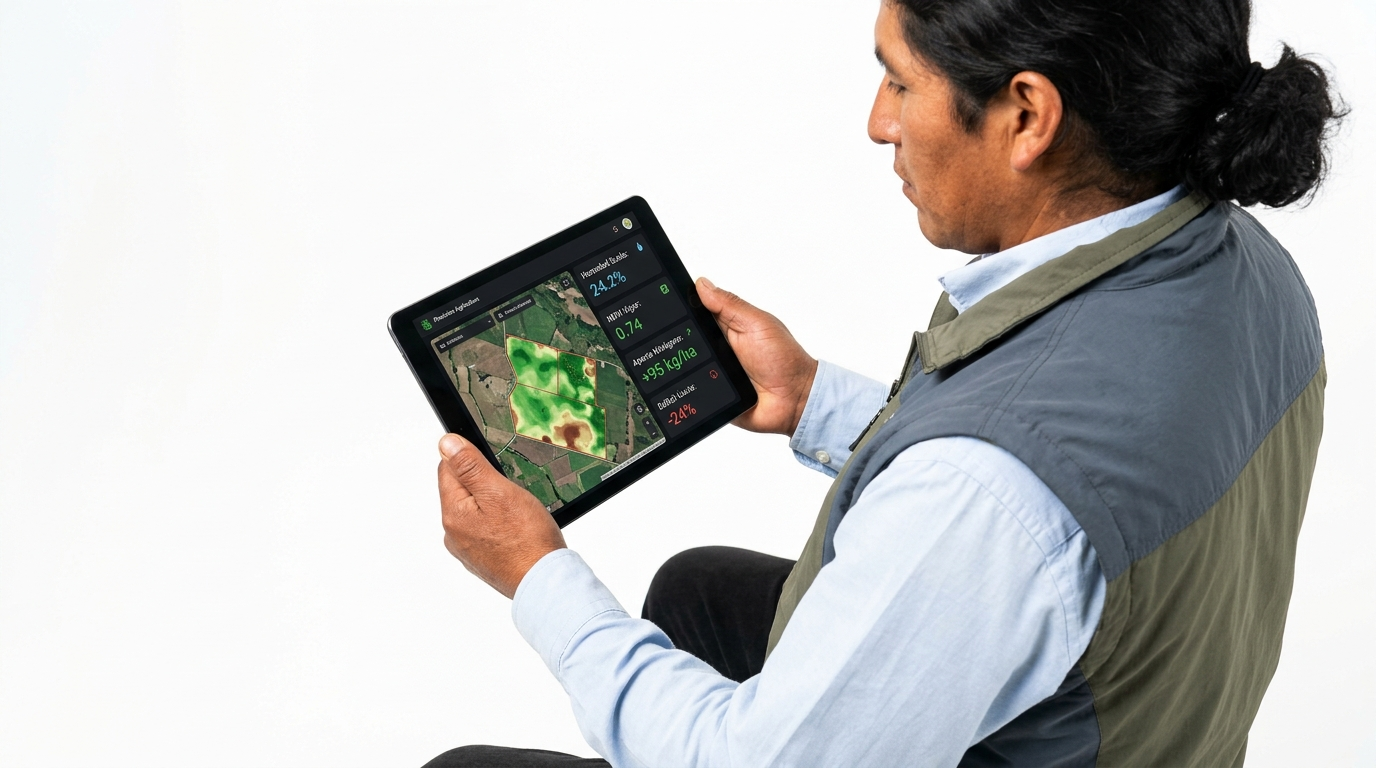
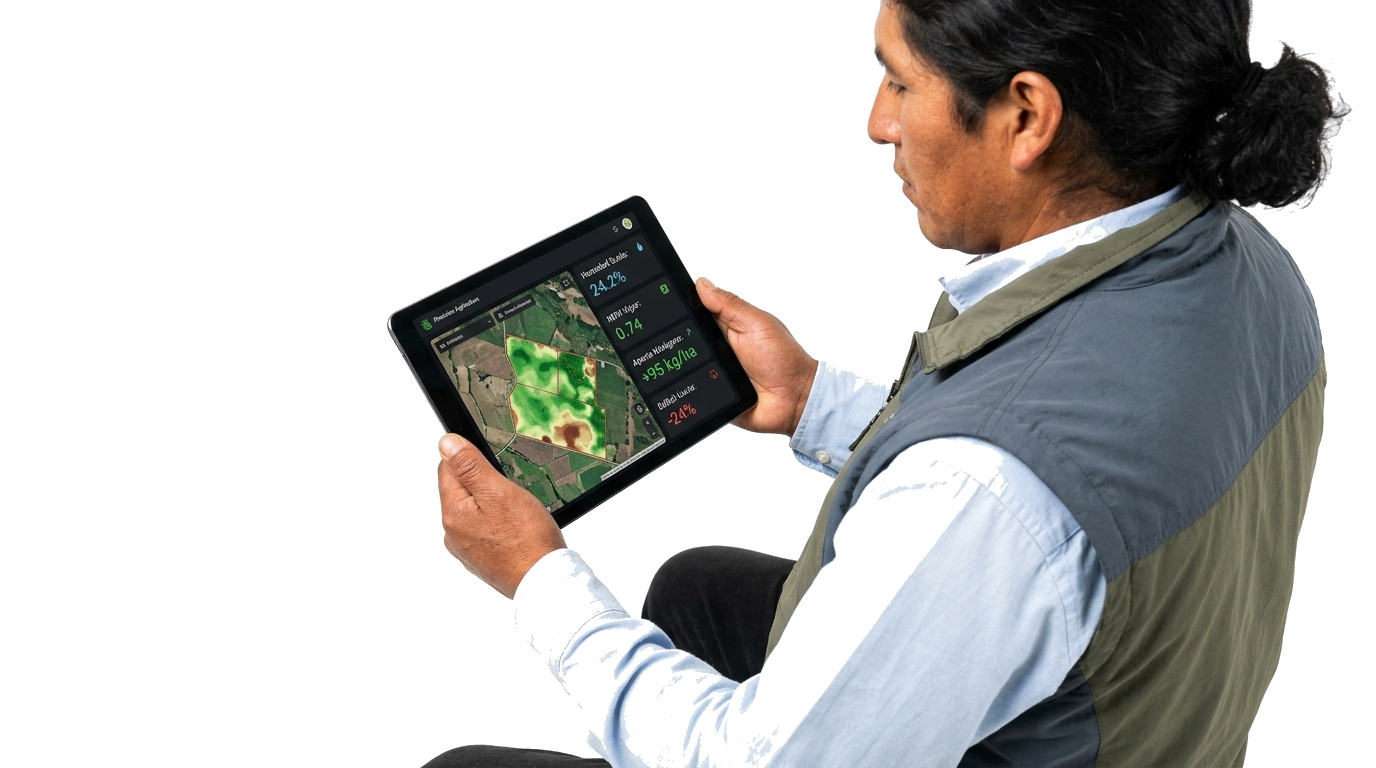
feat(ui): match Superpower layout with seamless white background, floating cards pills, and clean 3-col tablet showcase

diff --git a/app/page.tsx b/app/page.tsx
@@ -279,15 +279,15 @@ export default function SuperpowerTerraquipuLanding() {
       <section className="py-12 bg-white">
         <div className="max-w-6xl mx-auto px-6 text-center">
           <p className="text-[11px] font-mono uppercase tracking-widest text-zinc-400 mb-6 font-semibold">
-            FUENTES DE DATOS PÚBLICOS Y PROTOCOLOS CIENTÍFICOS ABIERTOS
+            DESARROLLADO CON PROTOCOLOS Y DATOS DE CIENCIA PÚBLICA ABIERTA
           </p>
           <div className="flex flex-wrap items-center justify-center gap-8 sm:gap-14 opacity-75 grayscale hover:grayscale-0 transition-all duration-300">
             <div className="font-mono text-xs font-bold text-zinc-800">✦ NASA POWER API</div>
             <div className="font-mono text-xs font-bold text-zinc-800">✦ NASA SMAP RADAR</div>
-            <div className="font-mono text-xs font-bold text-zinc-800">✦ GUÍAS TÉCNICAS INIA</div>
-            <div className="font-mono text-xs font-bold text-zinc-800">✦ DATOS SENAMHI CLIMA</div>
+            <div className="font-mono text-xs font-bold text-zinc-800">✦ INIA PERÚ</div>
+            <div className="font-mono text-xs font-bold text-zinc-800">✦ SENAMHI CLIMA</div>
             <div className="font-mono text-xs font-bold text-zinc-800">✦ ISRIC SOILGRIDS</div>
-            <div className="font-mono text-xs font-bold text-zinc-800">✦ OPEN-METEO API</div>
+            <div className="font-mono text-xs font-bold text-zinc-800">✦ OPEN-METEO DEM</div>
           </div>
         </div>
       </section>
@@ -314,7 +314,7 @@ export default function SuperpowerTerraquipuLanding() {
             {/* ================= Card 1: Escaneo Orbital Continuo ================= */}
             <div className="flex flex-col group">
               {/* Visual Container */}
-              <div className="relative rounded-[26px] overflow-hidden aspect-[4/5] bg-zinc-950 border border-zinc-200/80 shadow-sm group-hover:shadow-xl transition-all duration-300 flex flex-col justify-between p-5">
+              <div className="relative rounded-[26px] overflow-hidden aspect-[4/5] bg-zinc-950 border border-zinc-200/80 shadow-sm group-hover:shadow-xl transition-all duration-300 flex flex-col justify-between p-3.5">
                 {/* Background Image: NASA Space Orbit */}
                 <img
                   src="https://images.unsplash.com/photo-1451187580459-43490279c0fa?q=80&w=800&auto=format&fit=crop"
@@ -322,32 +322,31 @@ export default function SuperpowerTerraquipuLanding() {
                   className="absolute inset-0 w-full h-full object-cover object-center group-hover:scale-105 transition-transform duration-700 pointer-events-none"
                 />
                 {/* Gradient vignette for seamless telemetry contrast */}
-                <div className="absolute inset-0 bg-gradient-to-t from-black via-black/60 to-transparent pointer-events-none" />
+                <div className="absolute inset-0 bg-gradient-to-t from-black/60 via-transparent to-black/25 pointer-events-none" />
 
                 {/* Top Number Badge (Superpower Style) */}
                 <div className="relative z-10 w-7 h-7 rounded-lg bg-black/60 backdrop-blur-md border border-white/20 flex items-center justify-center text-white text-xs font-bold font-mono shadow-sm">
                   1
                 </div>
 
-                {/* Futuristic HUD Telemetry Overlay (No Inner Card Container) */}
-                <div className="relative z-10 w-full space-y-2 backdrop-blur-[1px]">
+                {/* Floating Frosted Glass Pill (Exact Match to Image 4) */}
+                <div className="relative z-10 w-full rounded-2xl bg-zinc-950/85 backdrop-blur-xl border border-white/15 p-3.5 shadow-xl text-white">
                   <div className="flex items-center justify-between">
-                    <div className="flex items-center gap-1.5 text-[10px] font-mono font-bold tracking-wider text-amber-400 uppercase">
-                      <span className="w-1.5 h-1.5 rounded-full bg-emerald-400 animate-pulse" />
-                      <span>NASA SMAP RADAR</span>
-                    </div>
-                    <span className="text-[10px] font-mono text-zinc-400 tracking-wider">L-BAND 1.4 GHz</span>
-                  </div>
-
-                  <div className="pt-2 border-t border-white/15 flex items-baseline justify-between">
-                    <div>
-                      <div className="text-2xl font-mono font-bold text-white tracking-tight">
-                        18.4%
-                        <span className="text-[11px] font-mono text-emerald-400 ml-1.5 font-normal">VWC Óptimo</span>
+                    <div className="flex items-center gap-2.5">
+                      <div className="w-8 h-8 rounded-xl bg-amber-500/20 border border-amber-500/30 flex items-center justify-center text-amber-400 text-sm shrink-0">
+                        🛰
                       </div>
-                      <div className="text-[10px] font-mono text-zinc-400 mt-0.5">Humedad edáfica continua</div>
+                      <div>
+                        <div className="text-xs font-mono font-bold text-white tracking-wide">
+                          NASA SMAP Radar
+                        </div>
+                        <div className="text-[11px] font-mono text-zinc-300 flex items-center gap-1.5 mt-0.5">
+                          <span className="w-1.5 h-1.5 rounded-full bg-emerald-400 animate-pulse" />
+                          Humedad: 18.4% VWC
+                        </div>
+                      </div>
                     </div>
-                    <div className="w-6 h-6 rounded-full bg-white/10 border border-white/20 flex items-center justify-center text-emerald-400 text-xs font-bold">
+                    <div className="w-5 h-5 rounded-full bg-emerald-500/20 border border-emerald-500/40 flex items-center justify-center text-emerald-400 text-xs font-bold shrink-0">
                       ✓
                     </div>
                   </div>
@@ -356,7 +355,7 @@ export default function SuperpowerTerraquipuLanding() {
 
               {/* Text Information Below Card (Arial Font) */}
               <div className="pt-4 space-y-1.5 font-sans">
-                <h3 className="text-lg font-bold text-zinc-950 tracking-tight">
+                <h3 className="hero-headline text-lg font-bold text-zinc-950 tracking-tight">
                   Escaneo Orbital Continuo
                 </h3>
                 <p className="text-xs text-zinc-600 leading-relaxed">
@@ -368,7 +367,7 @@ export default function SuperpowerTerraquipuLanding() {
             {/* ================= Card 2: Perfil Edáfico a 30m ================= */}
             <div className="flex flex-col group">
               {/* Visual Container */}
-              <div className="relative rounded-[26px] overflow-hidden aspect-[4/5] bg-zinc-950 border border-zinc-200/80 shadow-sm group-hover:shadow-xl transition-all duration-300 flex flex-col justify-between p-5">
+              <div className="relative rounded-[26px] overflow-hidden aspect-[4/5] bg-zinc-950 border border-zinc-200/80 shadow-sm group-hover:shadow-xl transition-all duration-300 flex flex-col justify-between p-3.5">
                 {/* Background Image: Andean agricultural terraces */}
                 <img
                   src="https://images.unsplash.com/photo-1500382017468-9049fed747ef?q=80&w=800&auto=format&fit=crop"
@@ -376,36 +375,42 @@ export default function SuperpowerTerraquipuLanding() {
                   className="absolute inset-0 w-full h-full object-cover object-center group-hover:scale-105 transition-transform duration-700 pointer-events-none"
                 />
                 {/* Gradient vignette */}
-                <div className="absolute inset-0 bg-gradient-to-t from-black via-black/60 to-transparent pointer-events-none" />
+                <div className="absolute inset-0 bg-gradient-to-t from-black/60 via-transparent to-black/25 pointer-events-none" />
 
                 {/* Top Number Badge */}
                 <div className="relative z-10 w-7 h-7 rounded-lg bg-black/60 backdrop-blur-md border border-white/20 flex items-center justify-center text-white text-xs font-bold font-mono shadow-sm">
                   2
                 </div>
 
-                {/* Futuristic HUD Telemetry Overlay (No Inner Card Container) */}
-                <div className="relative z-10 w-full space-y-2 backdrop-blur-[1px]">
+                {/* Floating White Pill (Exact Match to Image 4) */}
+                <div className="relative z-10 w-full rounded-2xl bg-white/95 backdrop-blur-xl border border-zinc-200/90 p-3.5 shadow-xl text-zinc-900 space-y-2">
                   <div className="flex items-center justify-between">
-                    <span className="text-[10px] font-mono font-bold tracking-wider text-amber-400 uppercase">
-                      DIAGNÓSTICO 30M
+                    <span className="text-[10px] font-mono font-bold tracking-wider text-zinc-500 uppercase">
+                      MUESTRA EDÁFICA
                     </span>
-                    <span className="text-[10px] font-mono text-emerald-400 font-semibold tracking-wider">
-                      SRTM / SOILGRIDS
+                    <span className="text-[10px] font-mono text-emerald-700 bg-emerald-50 border border-emerald-200/80 px-2 py-0.5 rounded-full font-bold">
+                      30m SRTM
                     </span>
                   </div>
 
-                  <div className="pt-2 border-t border-white/15 space-y-1.5 font-mono text-[11px]">
-                    <div className="flex justify-between items-center text-zinc-200">
-                      <span className="text-zinc-400 text-[10px] uppercase tracking-wider">pH Suelo</span>
-                      <span className="font-bold text-white">6.4 <span className="text-[10px] text-emerald-400 font-normal">(Óptimo)</span></span>
+                  <div className="pt-1.5 border-t border-zinc-100 space-y-1 font-mono text-[11px]">
+                    <div className="flex justify-between items-center text-zinc-700">
+                      <span className="text-zinc-500 text-[10px] uppercase tracking-wider flex items-center gap-1.5">
+                        <span className="w-2 h-2 rounded-full bg-amber-500" /> pH Suelo
+                      </span>
+                      <span className="font-bold text-zinc-900">6.4 <span className="text-[10px] text-emerald-600 font-normal">(Óptimo)</span></span>
                     </div>
-                    <div className="flex justify-between items-center text-zinc-200">
-                      <span className="text-zinc-400 text-[10px] uppercase tracking-wider">Materia Orgánica</span>
-                      <span className="font-bold text-white">3.8%</span>
+                    <div className="flex justify-between items-center text-zinc-700">
+                      <span className="text-zinc-500 text-[10px] uppercase tracking-wider flex items-center gap-1.5">
+                        <span className="w-2 h-2 rounded-full bg-emerald-500" /> Materia Orgánica
+                      </span>
+                      <span className="font-bold text-zinc-900">3.8%</span>
                     </div>
-                    <div className="flex justify-between items-center text-zinc-200">
-                      <span className="text-zinc-400 text-[10px] uppercase tracking-wider">Pendiente Valle</span>
-                      <span className="font-bold text-white">18° Grados</span>
+                    <div className="flex justify-between items-center text-zinc-700">
+                      <span className="text-zinc-500 text-[10px] uppercase tracking-wider flex items-center gap-1.5">
+                        <span className="w-2 h-2 rounded-full bg-blue-500" /> Pendiente Valle
+                      </span>
+                      <span className="font-bold text-zinc-900">18° Grados</span>
                     </div>
                   </div>
                 </div>
@@ -413,7 +418,7 @@ export default function SuperpowerTerraquipuLanding() {
 
               {/* Text Information Below Card (Arial Font) */}
               <div className="pt-4 space-y-1.5 font-sans">
-                <h3 className="text-lg font-bold text-zinc-950 tracking-tight">
+                <h3 className="hero-headline text-lg font-bold text-zinc-950 tracking-tight">
                   Perfil Edáfico a 30m
                 </h3>
                 <p className="text-xs text-zinc-600 leading-relaxed">
@@ -425,7 +430,7 @@ export default function SuperpowerTerraquipuLanding() {
             {/* ================= Card 3: El Quipu de Rotación ================= */}
             <div className="flex flex-col group">
               {/* Visual Container */}
-              <div className="relative rounded-[26px] overflow-hidden aspect-[4/5] bg-zinc-950 border border-zinc-200/80 shadow-sm group-hover:shadow-xl transition-all duration-300 flex flex-col justify-between p-5">
+              <div className="relative rounded-[26px] overflow-hidden aspect-[4/5] bg-zinc-950 border border-zinc-200/80 shadow-sm group-hover:shadow-xl transition-all duration-300 flex flex-col justify-between p-3.5">
                 {/* Background Image: Soil and seeds in farmer hands */}
                 <img
                   src="https://images.unsplash.com/photo-1592982537447-7440770cbfc9?q=80&w=800&auto=format&fit=crop"
@@ -433,15 +438,15 @@ export default function SuperpowerTerraquipuLanding() {
                   className="absolute inset-0 w-full h-full object-cover object-center group-hover:scale-105 transition-transform duration-700 pointer-events-none"
                 />
                 {/* Gradient vignette */}
-                <div className="absolute inset-0 bg-gradient-to-t from-black via-black/60 to-transparent pointer-events-none" />
+                <div className="absolute inset-0 bg-gradient-to-t from-black/60 via-transparent to-black/25 pointer-events-none" />
 
                 {/* Top Number Badge */}
                 <div className="relative z-10 w-7 h-7 rounded-lg bg-black/60 backdrop-blur-md border border-white/20 flex items-center justify-center text-white text-xs font-bold font-mono shadow-sm">
                   3
                 </div>
 
-                {/* Futuristic HUD Telemetry Overlay (No Inner Card Container) */}
-                <div className="relative z-10 w-full space-y-2 backdrop-blur-[1px]">
+                {/* Floating Frosted Glass Pill (Exact Match to Image 4) */}
+                <div className="relative z-10 w-full rounded-2xl bg-zinc-950/85 backdrop-blur-xl border border-white/15 p-3.5 shadow-xl text-white space-y-2">
                   <div className="flex items-center justify-between">
                     <span className="text-[10px] font-mono font-bold tracking-wider text-amber-400 uppercase flex items-center gap-1">
                       <span>⚡</span> SECUENCIA QUIPU
@@ -451,7 +456,7 @@ export default function SuperpowerTerraquipuLanding() {
                     </span>
                   </div>
 
-                  <div className="pt-2 border-t border-white/15 space-y-1.5 font-mono text-[11px]">
+                  <div className="pt-1.5 border-t border-white/15 space-y-1 font-mono text-[11px]">
                     <div className="flex justify-between items-center text-zinc-200">
                       <span className="text-zinc-300">1. Tarwi (Leguminosa)</span>
                       <span className="text-emerald-400 font-bold text-[10px]">+95 kg N/ha</span>
@@ -462,7 +467,7 @@ export default function SuperpowerTerraquipuLanding() {
                     </div>
                     <div className="flex justify-between items-center text-zinc-200">
                       <span className="text-zinc-300">3. Papa Nativa</span>
-                      <span className="text-blue-300 font-bold text-[10px]">Resiliencia</span>
+                      <span className="text-blue-300 font-bold text-[10px]">Alta resiliencia</span>
                     </div>
                   </div>
                 </div>
@@ -470,7 +475,7 @@ export default function SuperpowerTerraquipuLanding() {
 
               {/* Text Information Below Card (Arial Font) */}
               <div className="pt-4 space-y-1.5 font-sans">
-                <h3 className="text-lg font-bold text-zinc-950 tracking-tight">
+                <h3 className="hero-headline text-lg font-bold text-zinc-950 tracking-tight">
                   El Quipu de Rotación
                 </h3>
                 <p className="text-xs text-zinc-600 leading-relaxed">
@@ -482,7 +487,7 @@ export default function SuperpowerTerraquipuLanding() {
             {/* ================= Card 4: Regeneración y Cosecha ================= */}
             <div className="flex flex-col group">
               {/* Visual Container */}
-              <div className="relative rounded-[26px] overflow-hidden aspect-[4/5] bg-zinc-950 border border-zinc-200/80 shadow-sm group-hover:shadow-xl transition-all duration-300 flex flex-col justify-between p-5">
+              <div className="relative rounded-[26px] overflow-hidden aspect-[4/5] bg-zinc-950 border border-zinc-200/80 shadow-sm group-hover:shadow-xl transition-all duration-300 flex flex-col justify-between p-3.5">
                 {/* Background Image: Golden Harvest Fields */}
                 <img
                   src="https://images.unsplash.com/photo-1500937386664-56d1dfef3854?q=80&w=800&auto=format&fit=crop"
@@ -490,32 +495,32 @@ export default function SuperpowerTerraquipuLanding() {
                   className="absolute inset-0 w-full h-full object-cover object-center group-hover:scale-105 transition-transform duration-700 pointer-events-none"
                 />
                 {/* Gradient vignette */}
-                <div className="absolute inset-0 bg-gradient-to-t from-black via-black/60 to-transparent pointer-events-none" />
+                <div className="absolute inset-0 bg-gradient-to-t from-black/60 via-transparent to-black/25 pointer-events-none" />
 
                 {/* Top Number Badge */}
                 <div className="relative z-10 w-7 h-7 rounded-lg bg-black/60 backdrop-blur-md border border-white/20 flex items-center justify-center text-white text-xs font-bold font-mono shadow-sm">
                   4
                 </div>
 
-                {/* Futuristic HUD Telemetry Overlay (No Inner Card Container) */}
-                <div className="relative z-10 w-full space-y-2 backdrop-blur-[1px]">
+                {/* Floating Frosted Glass Pill (Exact Match to Image 4) */}
+                <div className="relative z-10 w-full rounded-2xl bg-zinc-950/85 backdrop-blur-xl border border-white/15 p-3.5 shadow-xl text-white space-y-2">
                   <div className="flex items-center justify-between">
-                    <span className="text-[10px] font-mono font-bold tracking-wider text-amber-400 uppercase">
-                      BALANCE DE COSECHA
+                    <span className="text-[10px] font-mono font-bold tracking-wider text-zinc-300 uppercase">
+                      CAMPAÑA COSECHADA
                     </span>
-                    <span className="text-[10px] font-mono text-emerald-400 font-semibold tracking-wider flex items-center gap-1">
-                      <span>●</span> CERTIFICADO
+                    <span className="text-[10px] font-mono text-emerald-400 bg-emerald-500/20 border border-emerald-500/30 px-2 py-0.5 rounded-full font-bold flex items-center gap-1">
+                      ✓ Éxito
                     </span>
                   </div>
 
-                  <div className="pt-2 border-t border-white/15 grid grid-cols-2 gap-3 font-mono">
-                    <div>
-                      <div className="text-2xl font-bold text-emerald-400 tracking-tight">+34%</div>
-                      <div className="text-[10px] text-zinc-400 uppercase tracking-wider mt-0.5">Rendimiento</div>
+                  <div className="pt-1.5 border-t border-white/15 grid grid-cols-2 gap-2 text-center font-mono">
+                    <div className="bg-white/5 rounded-xl p-1.5">
+                      <div className="text-xl font-bold text-emerald-400 tracking-tight">+34%</div>
+                      <div className="text-[9px] text-zinc-400 uppercase tracking-wider mt-0.5">Rendimiento</div>
                     </div>
-                    <div>
-                      <div className="text-2xl font-bold text-amber-300 tracking-tight">-75%</div>
-                      <div className="text-[10px] text-zinc-400 uppercase tracking-wider mt-0.5">Gorgojo Plaga</div>
+                    <div className="bg-white/5 rounded-xl p-1.5">
+                      <div className="text-xl font-bold text-amber-300 tracking-tight">-75%</div>
+                      <div className="text-[9px] text-zinc-400 uppercase tracking-wider mt-0.5">Gorgojo Plaga</div>
                     </div>
                   </div>
                 </div>
@@ -523,7 +528,7 @@ export default function SuperpowerTerraquipuLanding() {
 
               {/* Text Information Below Card (Arial Font) */}
               <div className="pt-4 space-y-1.5 font-sans">
-                <h3 className="text-lg font-bold text-zinc-950 tracking-tight">
+                <h3 className="hero-headline text-lg font-bold text-zinc-950 tracking-tight">
                   Regeneración y Cosecha
                 </h3>
                 <p className="text-xs text-zinc-600 leading-relaxed">
@@ -539,29 +544,16 @@ export default function SuperpowerTerraquipuLanding() {
 
       {/* ================= 5. LIFESTYLE TABLET SHOWCASE ("DIAGNÓSTICO INTEGRAL" - EXACT SUPERPOWER FULL-WIDTH PATTERN) ================= */}
       <section id="diagnostico" className="relative py-20 lg:py-28 bg-white overflow-hidden min-h-[640px] lg:min-h-[720px] flex items-center">
-        
-        {/* Full Section Background Image (Agronomist with Tablet seamlessly blending into pure white canvas) */}
-        <div className="absolute inset-0 z-0 pointer-events-none flex items-center justify-end overflow-hidden">
-          <div className="relative w-full lg:w-[65%] h-full flex items-center justify-center lg:justify-end">
-            <img 
-              src={`${BASE_PATH}/images/agronomist_white_bg.jpg`} 
-              alt="Agrónomo analizando el suelo con tablet en los Andes" 
-              className="w-full max-w-[850px] lg:max-w-[950px] h-auto object-contain object-right transform translate-x-4 lg:translate-x-6"
-            />
-          </div>
-        </div>
-
-        {/* Content Container (Floats directly over the white canvas and tablet scene) */}
-        <div className="relative z-10 max-w-7xl mx-auto px-6 w-full">
-          <div className="flex flex-col lg:flex-row items-center justify-between gap-10 lg:gap-8">
+        <div className="max-w-7xl mx-auto px-6 w-full">
+          <div className="grid grid-cols-1 lg:grid-cols-12 gap-8 lg:gap-4 items-center">
             
-            {/* Left Block: Heading, Subtitle & Floating Glass FAQs (Superpower Pattern) */}
-            <div className="w-full lg:max-w-md xl:max-w-lg space-y-8">
+            {/* Left Block: Heading, Subtitle & Floating Glass FAQs (lg:col-span-4) */}
+            <div className="lg:col-span-4 space-y-8 z-10">
               <div className="space-y-4">
                 <span className="text-xs font-mono uppercase tracking-widest text-amber-700 font-semibold">
                   DIAGNÓSTICO EN PARCELA
                 </span>
-                <h2 className="hero-headline text-3xl sm:text-4xl lg:text-[42px] font-bold text-zinc-950 leading-[1.12] tracking-tight transition-all duration-300">
+                <h2 className="hero-headline text-3xl sm:text-4xl lg:text-[40px] font-bold text-zinc-950 leading-[1.15] tracking-tight transition-all duration-300">
                   {DIAGNOSTICO_TABS[activeDiagnosticoTab].title}
                 </h2>
                 <p className="text-sm text-zinc-600 font-sans leading-relaxed transition-all duration-300">
@@ -574,7 +566,7 @@ export default function SuperpowerTerraquipuLanding() {
                 {DIAGNOSTICO_FAQS.map((faq, idx) => (
                   <div 
                     key={idx} 
-                    className="rounded-2xl bg-zinc-900/85 hover:bg-zinc-900/95 backdrop-blur-xl border border-white/10 p-3.5 text-white transition-all duration-200 shadow-md"
+                    className="rounded-2xl bg-zinc-900/90 hover:bg-zinc-900/95 backdrop-blur-xl border border-white/10 p-3.5 text-white transition-all duration-200 shadow-md"
                   >
                     <button
                       type="button"
@@ -596,11 +588,17 @@ export default function SuperpowerTerraquipuLanding() {
               </div>
             </div>
 
-            {/* Spacer for Center Space (where the tablet is displayed in the background) */}
-            <div className="hidden lg:block lg:flex-1 pointer-events-none" />
+            {/* Center Block: Agronomist with Tablet (lg:col-span-5) */}
+            <div className="lg:col-span-5 flex items-center justify-center relative select-none pointer-events-none">
+              <img 
+                src={`${BASE_PATH}/images/agronomist_white_bg.jpg`} 
+                alt="Agrónomo analizando el suelo con tablet en los Andes" 
+                className="w-full max-w-[580px] lg:max-w-[650px] h-auto object-contain transform lg:scale-105"
+              />
+            </div>
 
-            {/* Right Block: Vertical Tab Navigation (Exact Superpower Pattern: | Item 01) */}
-            <div className="w-full lg:w-auto flex flex-row lg:flex-col gap-3 lg:gap-6 text-xs font-sans overflow-x-auto lg:overflow-visible pb-2 lg:pb-0 shrink-0 self-center">
+            {/* Right Block: Vertical Tab Navigation (lg:col-span-3) */}
+            <div className="lg:col-span-3 flex flex-row lg:flex-col gap-3 lg:gap-6 text-xs font-sans overflow-x-auto lg:overflow-visible pb-2 lg:pb-0 shrink-0 justify-center z-10 lg:pl-6">
               {DIAGNOSTICO_TABS.map((tab, idx) => (
                 <button
                   key={idx}
@@ -708,7 +706,7 @@ export default function SuperpowerTerraquipuLanding() {
       </section>
 
       {/* ================= 7. SCIENTIFIC ADVISORY COUNCIL ================= */}
-      <section className="py-24 bg-white border-b border-zinc-200">
+      <section className="py-24 bg-white">
         <div className="max-w-6xl mx-auto px-6 space-y-12">
           
           <div className="text-center max-w-xl mx-auto space-y-2">
@@ -755,7 +753,7 @@ export default function SuperpowerTerraquipuLanding() {
       </section>
 
       {/* ================= 8. MULTI-PROFILE LEAD CAPTURE FORM (SUPERPOWER JOIN) ================= */}
-      <section id="unirse" className="py-24 bg-[#FAF9F5] border-b border-zinc-200">
+      <section id="unirse" className="py-24 bg-white">
         <div className="max-w-3xl mx-auto px-6 space-y-8">
           
           <div className="text-center space-y-2">
@@ -929,7 +927,7 @@ export default function SuperpowerTerraquipuLanding() {
       </section>
 
       {/* ================= 10. CLEAN MULTI-COLUMN FOOTER ================= */}
-      <footer className="bg-white py-16 border-t border-zinc-200 text-xs text-zinc-500 font-sans">
+      <footer className="bg-white py-16 text-xs text-zinc-500 font-sans">
         <div className="max-w-7xl mx-auto px-6 grid grid-cols-1 md:grid-cols-5 gap-10">
           
           <div className="md:col-span-2 space-y-3">
@@ -977,7 +975,7 @@ export default function SuperpowerTerraquipuLanding() {
 
         </div>
 
-        <div className="max-w-7xl mx-auto px-6 pt-10 mt-10 border-t border-zinc-100 flex flex-col sm:flex-row items-center justify-between gap-4 text-[11px] text-zinc-400">
+        <div className="max-w-7xl mx-auto px-6 pt-10 mt-10 flex flex-col sm:flex-row items-center justify-between gap-4 text-[11px] text-zinc-400">
           <div>© 2026 Terraquipu Project. Diseñado con sabiduría ancestral y telemetría espacial.</div>
           <div>Cusco • Valle Sagrado • Perú</div>
         </div>
